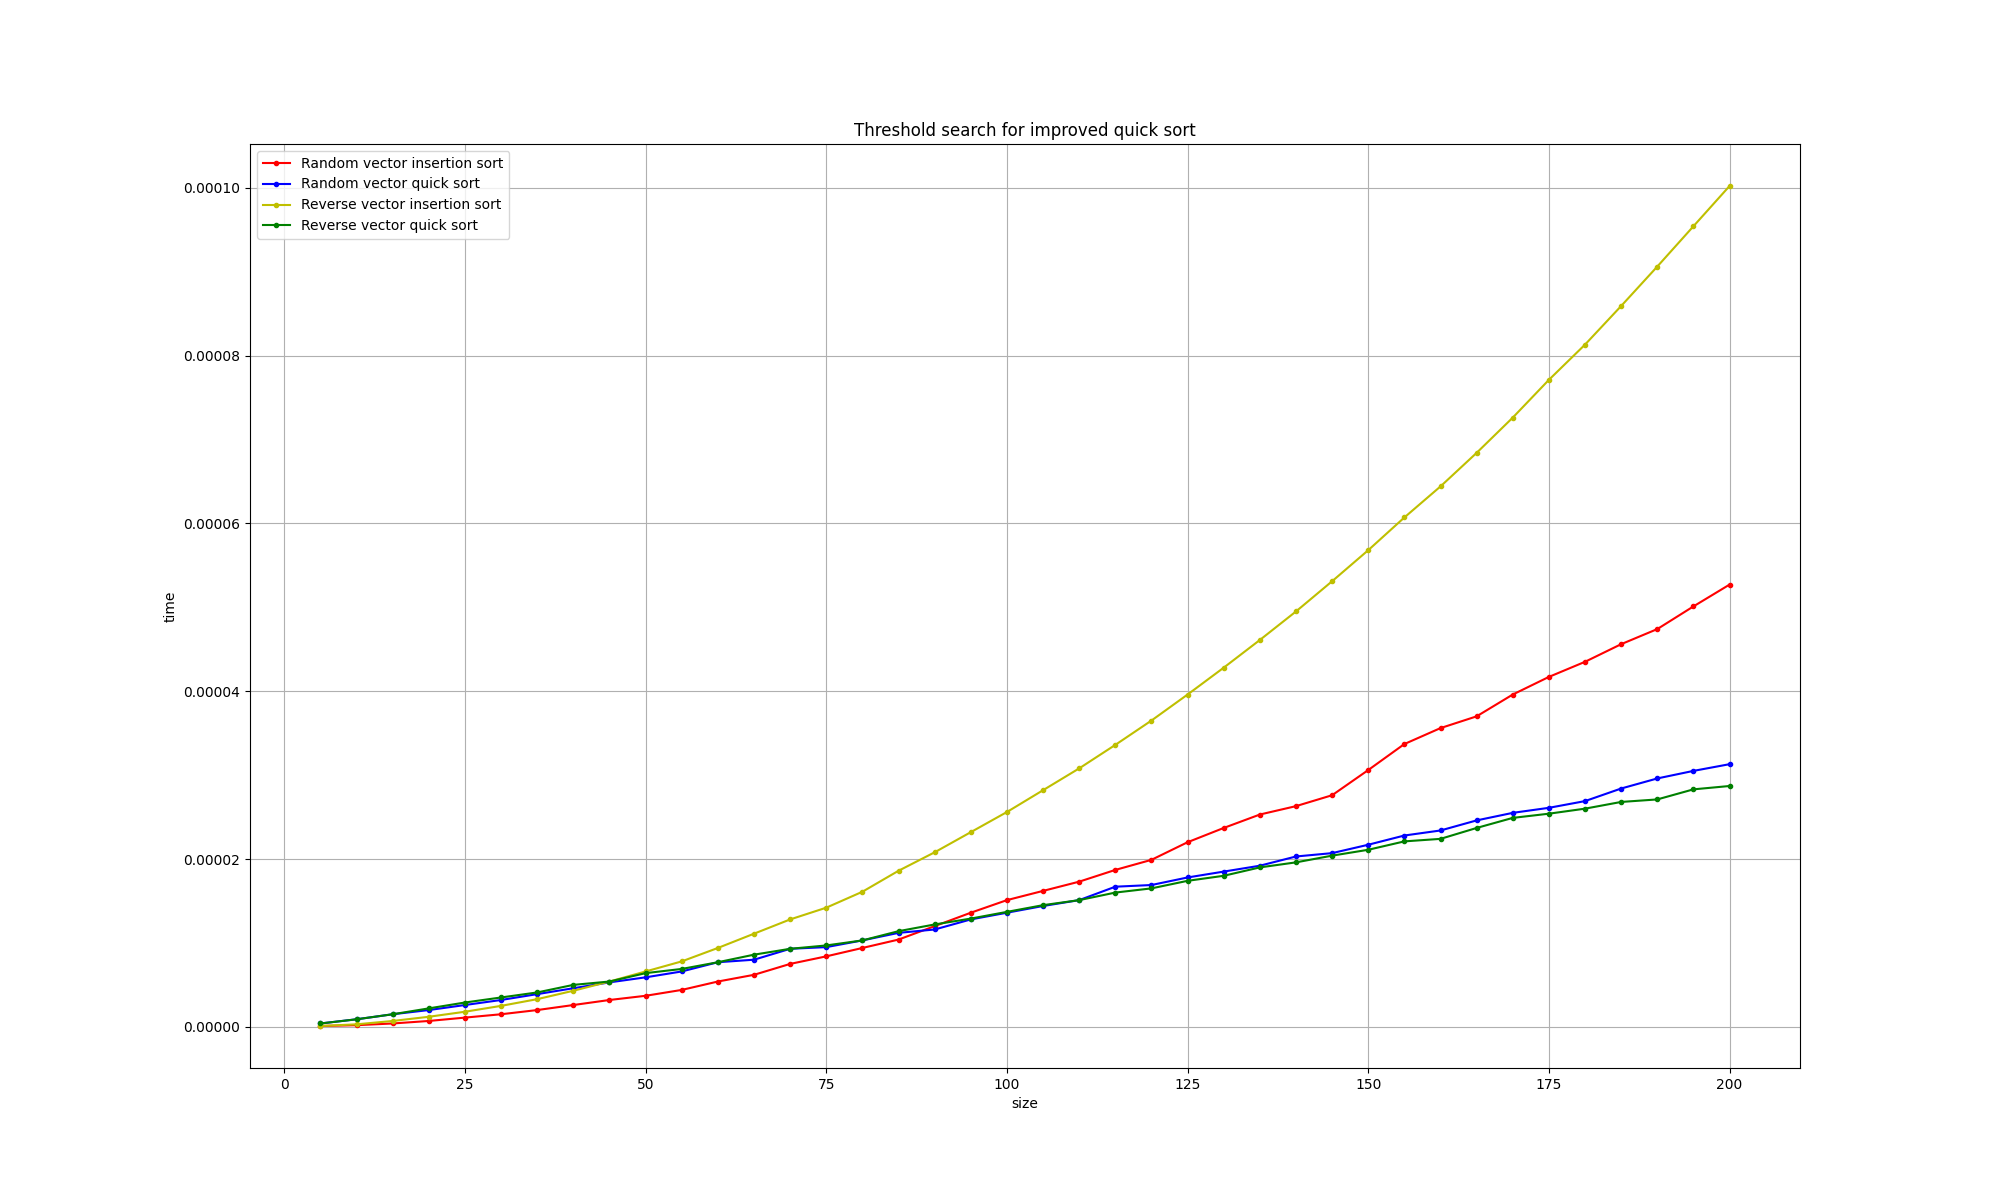
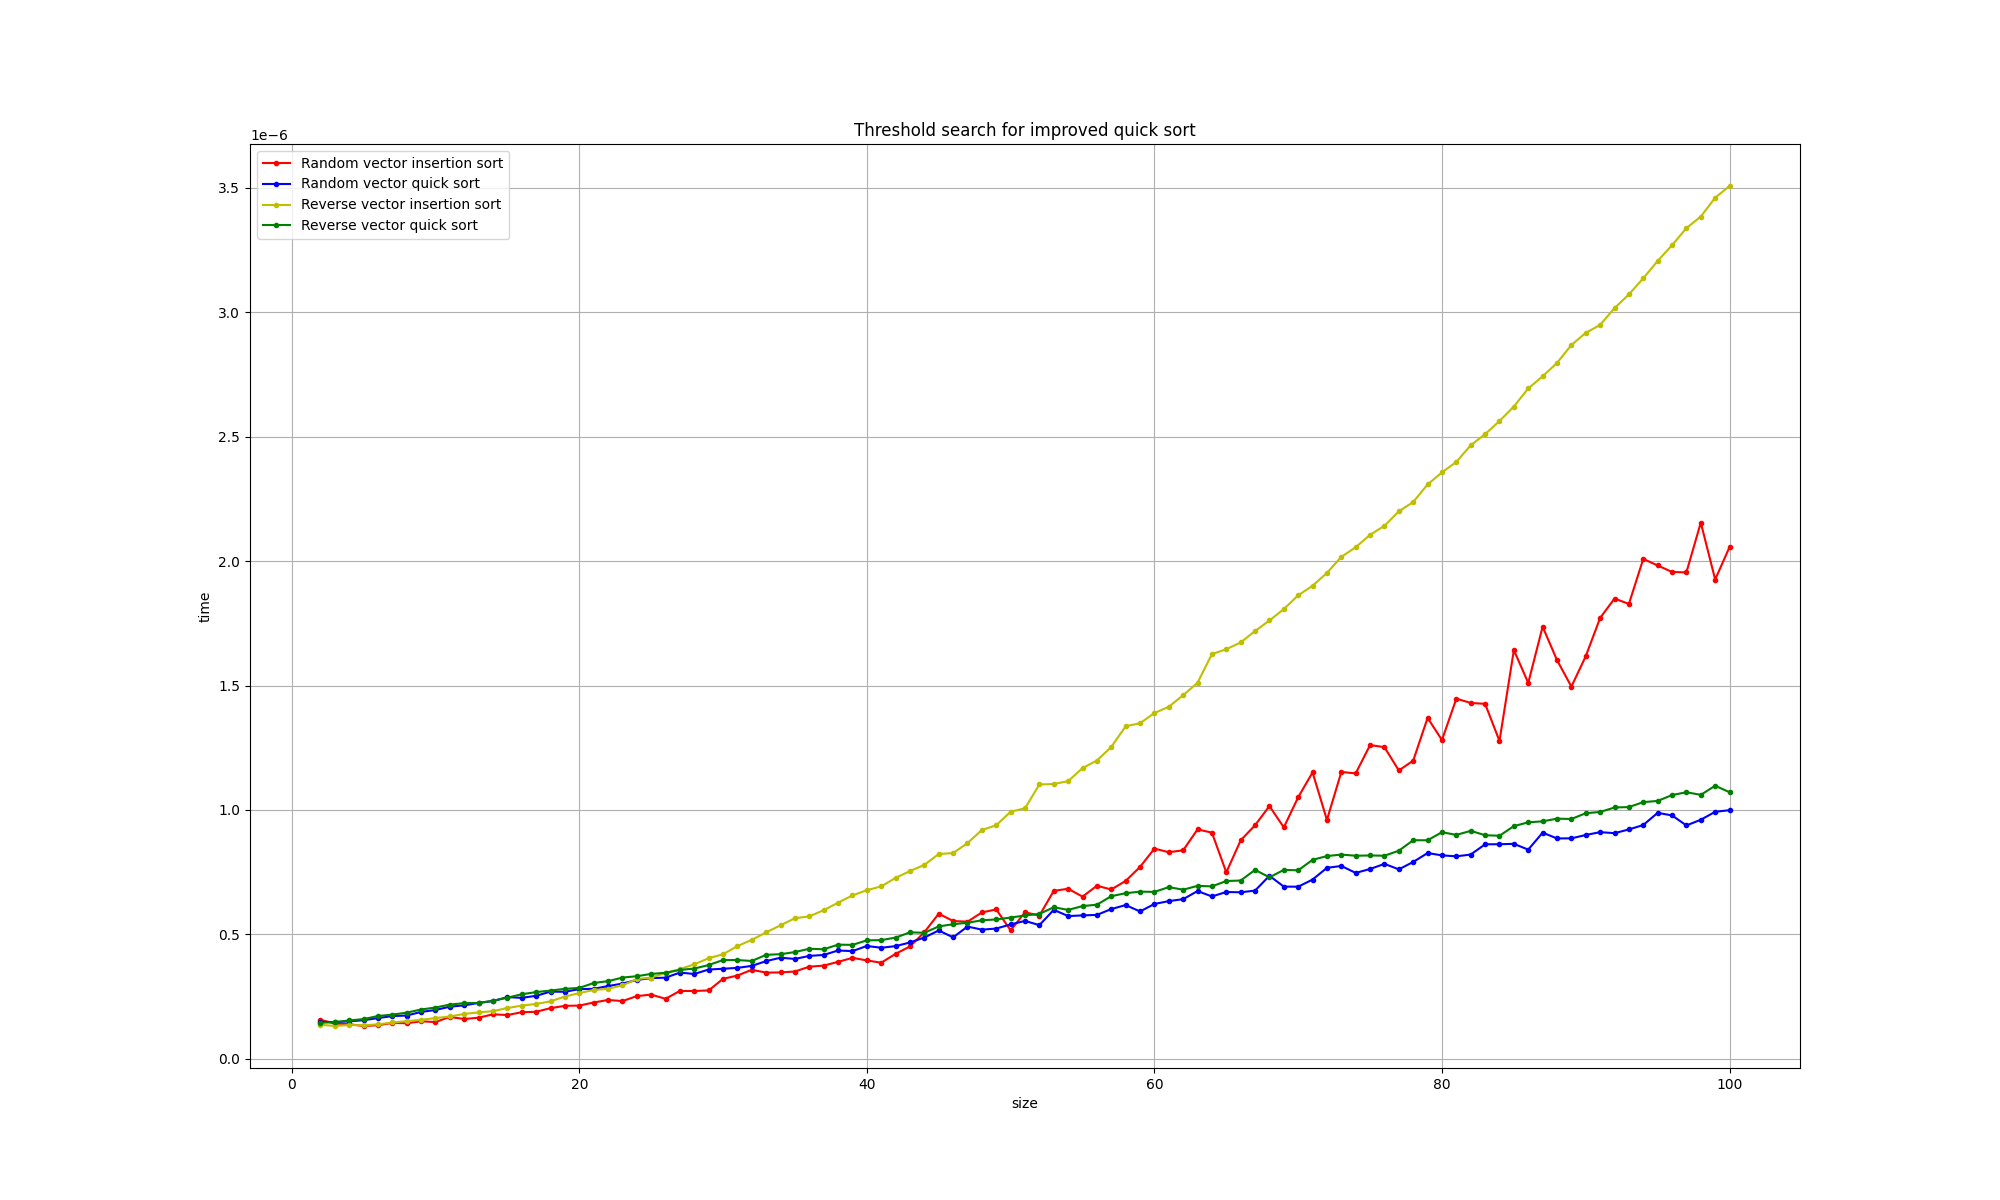
Доделал после проверки

diff --git a/Quick_sort/Quick_sort.cpp b/Quick_sort/Quick_sort.cpp
@@ -1,5 +1,6 @@
 #include <iostream>
 #include <vector>
+#include <string>
 #include <algorithm>
 #include <chrono>
 #include <random>
@@ -13,6 +14,7 @@
 using namespace std;
 using namespace chrono;
 
+// Генерация случайного вектора
 vector<int> generate_random_vector(int size, int random_number)
 {
     mt19937 gen(random_number);
@@ -25,6 +27,7 @@ vector<int> generate_random_vector(int size, int random_number)
     return v;
 }
 
+// Генерация вектора обратноотсортированного
 vector<int> generate_reverse_sorted_vector(int size)
 {
     vector<int> v(size);
@@ -35,7 +38,7 @@ vector<int> generate_reverse_sorted_vector(int size)
     return v;
 }
 
-// Функция для измерения времени выполнения
+// Функция для измерения времени выполнения с #include <chrono>
 template <typename Func>
 double measure_time(Func&& func) 
 {
@@ -48,6 +51,7 @@ double measure_time(Func&& func)
     return duration<double>(end - start).count();
 }
 
+// Сохранение результатов
 void save_results_to_csv(const vector<int>& sizes, const vector<double>& rand_is, 
     const vector<double>& rand_qs, const vector<double>& rev_is, const vector<double>& rev_qs)
 {
@@ -69,6 +73,24 @@ void save_results_to_csv(const vector<int>& sizes, const vector<double>& rand_is
     file.close();
 }
 
+// Вспомогательые функции запуска тестов
+void insertion_sort_test(vector<int> vec)
+{
+    vector<int> vec_copy = vec;
+
+    insertion_sort(vec_copy.data(), vec_copy.data() + vec_copy.size(), less<int>());
+}
+
+void quick_sort_test(vector<int> vec)
+{
+    vector<int> vec_copy = vec;
+
+    //  Запускать одно из двух
+    //classic_quick_sort(vec_copy.data(), vec_copy.data() + vec_copy.size(), less<int>());
+    quick_sort(vec.data(), vec.data() + vec.size(), less<int>());
+}
+
+// Запуск тестов с помощью #include <chrono>
 void chrono_tests()
 {
     vector<int> array_sizes;
@@ -80,12 +102,12 @@ void chrono_tests()
     random_device rd;           // Устройство для генерации случайного числа
     int random_numb = rd();     // Случайное число для инициализации генератора
 
-    int tries = 100;
-    double min_time;
+    int tries = 10000;
+    double time;
 
     vector<int> vec;
 
-    for (int i = 50; i <= 150; i += 1) {
+    for (int i = 2; i <= 60; i += 1) {
         array_sizes.push_back(i);
     }
 
@@ -93,50 +115,52 @@ void chrono_tests()
     {
         cout << "Size = " << size << "\n";
 
-
-        min_time = numeric_limits<double>::max();
-
-        for (int i = 0; i < tries; ++i) {
-            vec = generate_random_vector(size, random_numb);
-            min_time = min(min_time, measure_time([&]() {insertion_sort(vec.data(), vec.data() + vec.size(), less<int>()); }));
-        }
-
-        random_insertion_sort_times.push_back(min_time);
+        vec = generate_random_vector(size, random_numb);
 
 
-        min_time = numeric_limits<double>::max();
+        time = 0;
 
         for (int i = 0; i < tries; ++i) {
-            vec = generate_random_vector(size, random_numb);
-            min_time = min(min_time, measure_time([&]() {quick_sort(vec.data(), vec.data() + vec.size(), less<int>()); }));
+            time += measure_time([&]() { insertion_sort_test(vec); });
         }
 
-        random_quick_sort_times.push_back(min_time);
+        random_insertion_sort_times.push_back(time / tries);
 
 
-        min_time = numeric_limits<double>::max();
+        time = 0;
 
         for (int i = 0; i < tries; ++i) {
-            vec = generate_reverse_sorted_vector(size);
-            min_time = min(min_time, measure_time([&]() {insertion_sort(vec.data(), vec.data() + vec.size(), less<int>()); }));
+            time += measure_time([&]() { quick_sort_test(vec); });
         }
 
-        reverse_insertion_sort_times.push_back(min_time);
+        random_quick_sort_times.push_back(time / tries);
 
 
-        min_time = numeric_limits<double>::max();
+        vec = generate_reverse_sorted_vector(size);
+
+
+        time = 0;
 
         for (int i = 0; i < tries; ++i) {
-            vec = generate_reverse_sorted_vector(size);
-            min_time = min(min_time, measure_time([&]() {quick_sort(vec.data(), vec.data() + vec.size(), less<int>()); }));
+            time += measure_time([&]() { insertion_sort_test(vec); });
         }
 
-        reverse_quick_sort_times.push_back(min_time);
+        reverse_insertion_sort_times.push_back(time / tries);
+
+
+        time = 0;
+
+        for (int i = 0; i < tries; ++i) {
+            time += measure_time([&]() {quick_sort_test(vec); });
+        }
+
+        reverse_quick_sort_times.push_back(time / tries);
     }
 
     save_results_to_csv(array_sizes, random_insertion_sort_times, random_quick_sort_times, reverse_insertion_sort_times, reverse_quick_sort_times);
 }
 
+// Запуск тестов с помощью #include "../nanobench/src/include/nanobench.h"
 void nanobench_tests()
 {
     vector<int> array_sizes;
@@ -149,10 +173,11 @@ void nanobench_tests()
     int random_numb = rd();
 
     vector<int> vec;
+    int warmups = 1000, epochs = 10000;
 
     ankerl::nanobench::Bench bench;
 
-    for (int i = 50; i <= 150; i += 1) {
+    for (int i = 2; i <= 60; i += 1) {
         array_sizes.push_back(i);
     }
 
@@ -163,43 +188,43 @@ void nanobench_tests()
 
         vec = generate_random_vector(size, random_numb + size);
 
+
         // Создаём объект для измерения времени
         // Конструктор Bench() создаёт объект для выполнения бенчмарков
         // warmup() задаёт количество прогревочных запусков
         // minEpochIterations() устанавливает минимальное количество запусков тестируемой функции в одной "эпохе".
         // Эпоха — это набор запусков функции, за которые измеряется время выполнения.
-        bench = ankerl::nanobench::Bench().warmup(50).minEpochIterations(200);
+        bench = ankerl::nanobench::Bench().warmup(warmups).minEpochIterations(epochs);
 
         // Запускаем измерение времени для функции быстрой сортировки
-        bench.run("Random Array | insertion_sort", [&]() {insertion_sort(vec.data(), vec.data() + vec.size(), less<int>()); });
+        bench.run("Random array | Insertion sort", [&]() {insertion_sort_test(vec); });
 
         // Получаем медианное время выполнения в наносекундах
         random_insertion_sort_times.push_back(bench.results().front().median(ankerl::nanobench::Result::Measure::elapsed));
 
 
-        vec = generate_random_vector(size, random_numb + size);
 
-        bench = ankerl::nanobench::Bench().warmup(50).minEpochIterations(200);
+        bench = ankerl::nanobench::Bench().warmup(warmups).minEpochIterations(epochs);
 
-        bench.run("Random Array | quick_sort", [&]() {classic_quick_sort(vec.data(), vec.data() + vec.size(), less<int>()); });
+        bench.run("Random array | Quick sort", [&]() {quick_sort_test(vec); });
 
         random_quick_sort_times.push_back(bench.results().front().median(ankerl::nanobench::Result::Measure::elapsed));
 
 
         vec = generate_reverse_sorted_vector(size);
 
-        bench = ankerl::nanobench::Bench().warmup(20).minEpochIterations(30);
 
-        bench.run("Reverse Array | insertion_sort ", [&]() {insertion_sort(vec.data(), vec.data() + vec.size(), less<int>()); });
+        bench = ankerl::nanobench::Bench().warmup(warmups).minEpochIterations(epochs);
+
+        bench.run("Reverse array | Insertion sort", [&]() {insertion_sort_test(vec); });
 
         reverse_insertion_sort_times.push_back(bench.results().front().median(ankerl::nanobench::Result::Measure::elapsed));
 
 
-        vec = generate_reverse_sorted_vector(size);
 
-        bench = ankerl::nanobench::Bench().warmup(20).minEpochIterations(30);
+        bench = ankerl::nanobench::Bench().warmup(warmups).minEpochIterations(epochs);
 
-        bench.run("Reverse Array | quick_sort", [&]() {classic_quick_sort(vec.data(), vec.data() + vec.size(), less<int>()); });
+        bench.run("Reverse array | Quick sort", [&]() {quick_sort_test(vec); });
 
         reverse_quick_sort_times.push_back(bench.results().front().median(ankerl::nanobench::Result::Measure::elapsed));
 
@@ -211,9 +236,9 @@ void nanobench_tests()
 
 int main()
 {
-    chrono_tests();
-
-    //nanobench_tests();
+    // Запускать одно из двух
+    //chrono_tests();
+    nanobench_tests();
 
     return 0;
 }
